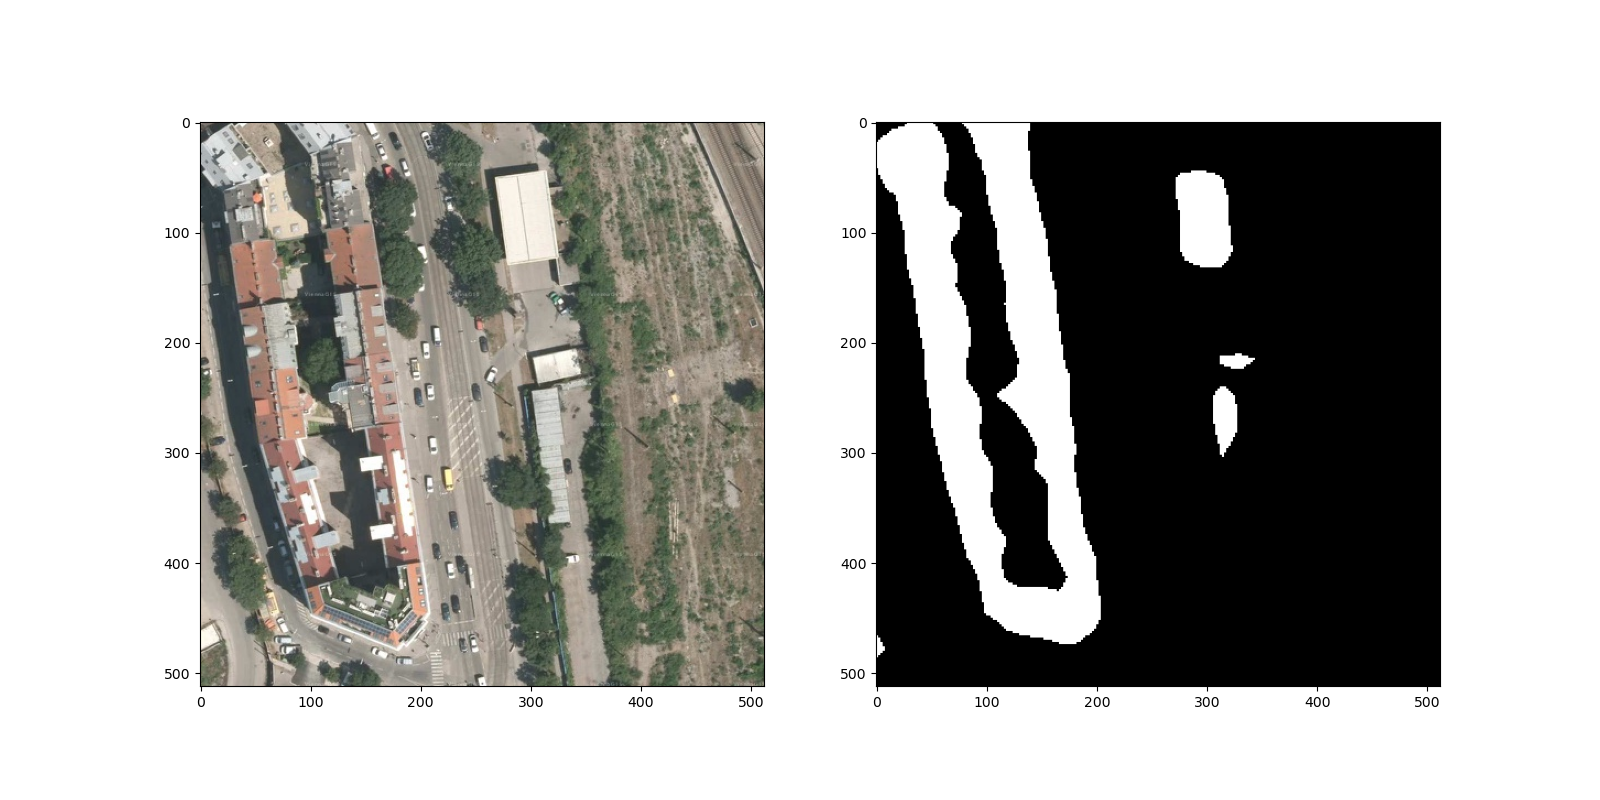
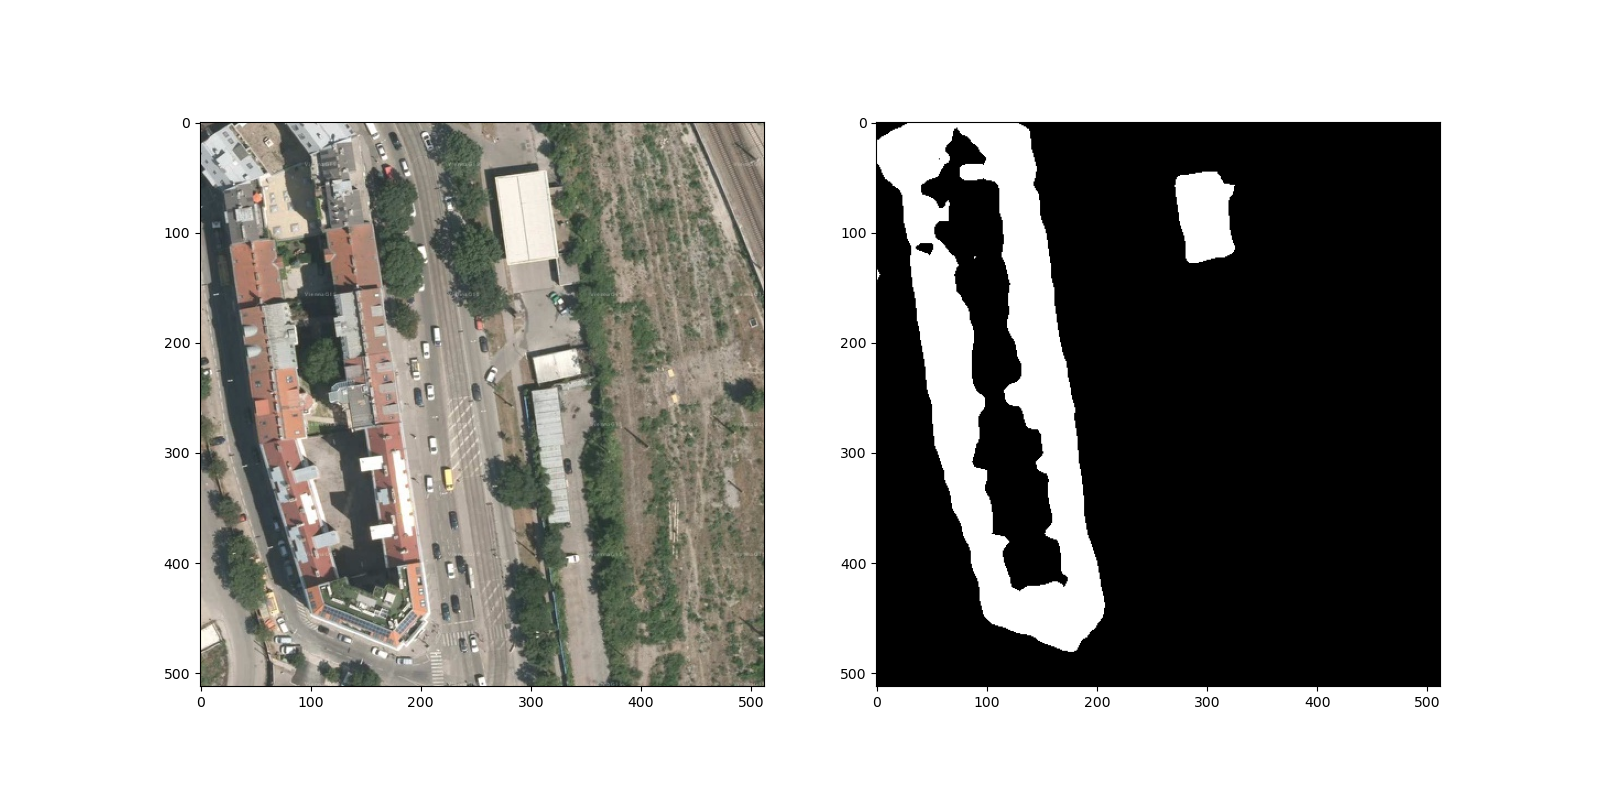
add some results

diff --git a/README.md b/README.md
@@ -1,3 +1,5 @@
+
+
 # Semantic-segmentation-Tianchi
 
 ## Intro
@@ -14,14 +16,17 @@ V：VerticalFlip
 
 Ro：RandomRotate90
 
-Re：Resize（推理时将原图片Resize成256然后输入，最后插值获得结果，不然最后结果超过20M（似乎更精细））
+ReN：Resize（推理时将原图片Resize成256然后输入，最后最近邻插值获得结果）
+
+ReL：Resize（推理时将原图片Resize成256然后输入，最后双线性插值获得结果）
 
 |   Method   |   Score    |
 | :--------: | :--------: |
 |    FCN     |   0.7582   |
-|   FCN+H    | **0.7625** |
+|   FCN+H    |   0.7625   |
+| FCN+H+ReN  | **0.7980** |
 | FCN+H+V+Ro |   0.7572   |
-|  U-net+Re  | **0.8641** |
+| U-net+ReN  | **0.8641** |
 
 
 
@@ -31,6 +36,14 @@ Re：Resize（推理时将原图片Resize成256然后输入，最后插值获得
 
 ![FCN](/results/FCN.png)
 
-* U-net + R
+* FCN + H + ReN
 
-![FCN](/results/U-net_Re.png)
+![FCN](/results/FCN_ReN.png)
+
+* U-net
+
+![FCN](/results/U-net.png)
+
+* U-net + ReN
+
+![Unet](/results/U-net_Re.png)
